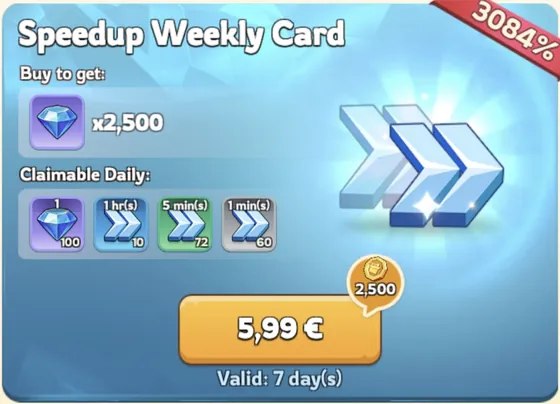
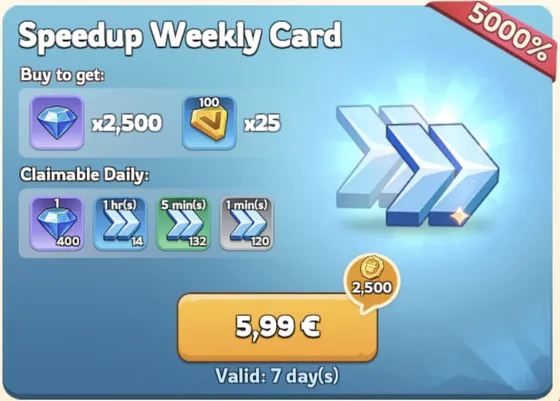
Bring the private mirror across: Kingshot update of 19 October
The game update of Monday 19 October changed several packs. The real-money
survey of packs is updated from Aistra's new in-game survey:
- The five weekly cards have new contents and new hover images. The Speedup
  Weekly Card now gives 11,340 minutes for 6 EUR (7,140 before), so every
  general speedup is cheaper; the Truegold Weekly Card gives 207 TrueGold
  (144 before).
- The choice crates of the Gear and Pet Weekly Cards count like the "pick
  one" options of the custom chests. The Gear Weekly Card becomes the
  cheapest source of 100 Enhancement XP, Lucky Hero Gear Chests and
  Forgehammers.
- New pack: Daily Deals - General Shard. Counting its luck boxes at their
  average (1.5 shards each), it is the cheapest source of universal mythic
  shards.
- The Ultra Value Monthly Card gives 17,000 gems (14,000 before), so a gem,
  the Gold Key and the VIP XP bundles get cheaper.
- Wilson's Viking Bounty: one chest every 100,000 points (200,000 before),
  twice as many chests at every level, and its power from the in-game table.

The pack planner, still being worked on in the private mirror, is not part
of this.

Claude-Session: https://claude.ai/code/session_011B8b8cz8rD9iBXhgpetbWm

diff --git a/map/06b-releve-euro.md b/map/06b-releve-euro.md
@@ -23,6 +23,9 @@ Seconde valorisation, en argent réel, tirée du relevé en jeu des packs payant
 - À prix unitaire égal entre deux tarifs, le **moins cher** est retenu (Ranger à 24 € = 4 × Rencontre Frontalière à 6 € : on affiche le pack à 6 €) ; `scEurRawPrice()` reprend le minimum si le fichier est mal régénéré.
 - Un seul pack : son image illustre l'objet. Plusieurs : « Multipack », sans image ; son survol liste les packs à égalité.
 - **Coffre personnalisé** : on y choisit 3 objets, éventuellement identiques, donc un objet « Au Choix » compte pour 3 fois la ligne. Depuis la livraison du 13/09/2026, la colonne `Valeur` de l'Excel porte **déjà** le triple : ne pas remultiplier, ne pas « corriger » vers le tiers. Contrôle à chaque livraison : l'Or, les deux Marques de Dressage, le Coffre d'Avancement Animal, la Caisse d'Équipement de Héros Chanceux, les Guides et Plans de Talisman ne bougent pas sans raison.
+- **Caisse au choix livrée par un pack** (onglet *Liste item* : « Calcul autre », contenu en colonne C) : elle n'est pas un objet du référentiel, son contenu se relève comme une ligne « Au Choix ». N caisses = N choix, et chaque option compte seule pour tout : la Carte hebdo Équipement donne 70 lots de 100 EXP d'Amélioration plus 42 caisses (2 lots, 1 Caisse chanceuse ou 1 Marteau au choix), soit 154 lots, 73 caisses chanceuses ou 56 marteaux pour 6 €. Contenu connu : caisse perso d'amélioration d'équipement de héros = 2 lots de 100 EXP d'Amélioration, 1 Caisse chanceuse ou 1 Marteau ; caisse perso de marque animal = 1 Marque de Dressage Avancée ou 8 Communes. Une caisse nouvelle s'ajoute ici, et sur le miroir privé à `CRATES` de `tools/build_pack_planner.py`, qui signale celles qui manquent.
+- **Boîte à contenu aléatoire** (*Liste item* : « Calcul autre », probabilités en colonne C) : elle compte pour ce qu'elle rend en moyenne. La Boîte à chance de Héros Universel Mythique donne 1 à 10 fragments universels, 1,5 en moyenne (le référentiel gemmes valorise déjà la boîte Gen 7 à 1,5 fragment, 7 500 contre 5 000) : l'Offre quotidienne Fragment universel rend donc 6 + 4 × 1,5 = 12 fragments pour 6 €. Une boîte nouvelle s'ajoute ici avec son rendement moyen, et sur le miroir privé à `LUCK_BOXES` du même script.
+- **Un nom de pack qui revient** plus bas dans l'Excel est un second pack, pas un contenu doublé : Amélioration d'Equipement Exclusif Spécial y figure deux fois (variante Gen 7, puis Gen 6), à 5 $ chacune. Ses lignes ne s'additionnent pas d'un bloc à l'autre, sans quoi l'EXP VIP passe de 25 à 50 et bat à tort le plafond en gemmes. Même chose pour des lignes « Au Choix » identiques : un seul des trois choix compte (Sélection Personnalisée, 54 accélérateurs 1h).
 - Couverture partielle assumée (59 objets relevés, 66 chiffrés avec les calculés) : un objet non couvert vaut `null`, **jamais 0** (règle du « — », §9 `09b`).
 
 ### Les quatre blocs de correction
@@ -30,11 +33,12 @@ Aucun ne vient de l'Excel : **les conserver** quand on régénère `items`. Aucu
 
 **`derived`** `id -> {fromId, factor | from:[{id, factor}], packs?, ceiling?, how{FR,EN}}` : déduit un prix d'un ou plusieurs objets (`from[]` additionne) et **l'emporte sur le relevé**.
 - Une règle irrésolue (base absente, facteur invalide, cycle) rend « — », jamais le relevé ; dans une somme, un terme irrésolu annule tout. Chaque terme a sa propre copie du chemin anti-cycle (deux termes peuvent partager une base).
-- `ceiling: true` en fait un **plafond** : le relevé reprend la main si un pack vend moins cher, et `scEurRuleDecides()` dit alors qui décide (la colonne « Pack d'origine » suit). Utilisé pour la Clé en Or (1 500 gemmes → 1,29 €) et les lots d'EXP VIP de 10 et 100 (1 point = 2 gemmes). Aussi pour les trois options du Coffre personnalisé de Matériaux d'Avancement Animal (au choix 1 Médaillon de Promotion, 2 Potions Nutritives ou 7 Manuels de Croissance) : chacune vaut au plus sa part du coffre (× 1, × 0,5, × 1/7), sans quoi acheter le coffre battrait le prix affiché.
+- Le `packs` d'une règle nomme le pack qui chiffre sa base : il ne se met pas à jour seul. À chaque livraison, vérifier qu'il suit toujours `items` de la base (le 19/10/2026, le Coffre d'Avancement Animal est passé du Coffre Perso Animal à la Carte Hebdo Animal, et ses trois règles avec lui, chiffres de leur `how` compris).
+- `ceiling: true` en fait un **plafond** : le relevé reprend la main si un pack vend moins cher, et `scEurRuleDecides()` dit alors qui décide (la colonne « Pack d'origine » suit). Utilisé pour la Clé en Or (1 500 gemmes → 1,06 € depuis que la Carte Mensuelle Ultra en donne 17 000) et les lots d'EXP VIP de 10 et 100 (1 point = 2 gemmes). Aussi pour les trois options du Coffre personnalisé de Matériaux d'Avancement Animal (au choix 1 Médaillon de Promotion, 2 Potions Nutritives ou 7 Manuels de Croissance) : chacune vaut au plus sa part du coffre (× 1, × 0,5, × 1/7), sans quoi acheter le coffre battrait le prix affiché.
 - Cas réels : Caisse Mythique personnalisée = × 100 la Caisse Chanceuse ; Marche Rapide 1 = × 0,5 la 2 ; fragment ciblé de héros mythique = × 0,8 l'universel ; EXP VIP 1 000 et 10 000 = × 10 et × 100 le lot de 100 ; EXP de héros 1 000 et 5 000 = × 0,1 et × 0,5 le lot de 10 000 ; Or Véritable Trempé = × 20 / 1,45 l'Or Véritable (1,45 TTG espérés pour 20 Or Véritable, aucun pack n'en vend) ; caisses de ressources personnalisées alignées sur le pain (Niv. 1 = 1 × `10k_bread`, Niv. 2 = 10 ×, Niv. 3 = 100 ×), **hors `weights`** puisqu'elles héritent déjà de la pondération du pain.
 - Trois caisses du Chef valent ce qu'elles **rendent** (espérance du butin, calculée en amont ; le fichier ne garde que le résultat) : Matériaux de Talisman, Matériaux d'Équipement, Variétés d'Équipement. Leur ligne d'audit donne la somme nommée puis en divisions exactes, parce que les prix unitaires du tableau sont arrondis.
 
-**`speedups`** `{basis{packs[], minutes, detail[]}, minutes{id -> durée}, how}` : prix d'**une minute** = prix du pack de base ÷ `basis.minutes` (`scEurBasisPrice()`, avec le prix de CE pack). Base : le pack le meilleur en minutes par euro (Carte Hebdo Accélérer, 7 140 min pour 6 €). Chaque accélérateur vaut sa durée, ce qui chiffre aussi l'Accélérateur 8h qu'aucun pack ne vend.
+**`speedups`** `{basis{packs[], minutes, detail[]}, minutes{id -> durée}, how}` : prix d'**une minute** = prix du pack de base ÷ `basis.minutes` (`scEurBasisPrice()`, avec le prix de CE pack). Base : le pack le meilleur en minutes par euro (Carte Hebdo Accélérer, 11 340 min pour 6 € depuis la livraison du 19/10/2026). Chaque accélérateur vaut sa durée, ce qui chiffre aussi l'Accélérateur 8h qu'aucun pack ne vend.
 
 **`affinity`** `{basis{packs[], points, detail[]}, points{id -> points}, how}` : même idée pour les trois jetons d'affinité d'expert (Cor en cuivre 10 points, Coupe en argent 100, Épices d'élite 1 000). La base est le **pack** le plus généreux en points par euro, jetons additionnés, pas le jeton le moins cher (Rencontre Frontalière : 24 000 points pour 5 $). Chiffre aussi le Cor en cuivre. Un test vérifie que `basis.points` = somme de son `detail`.
 
